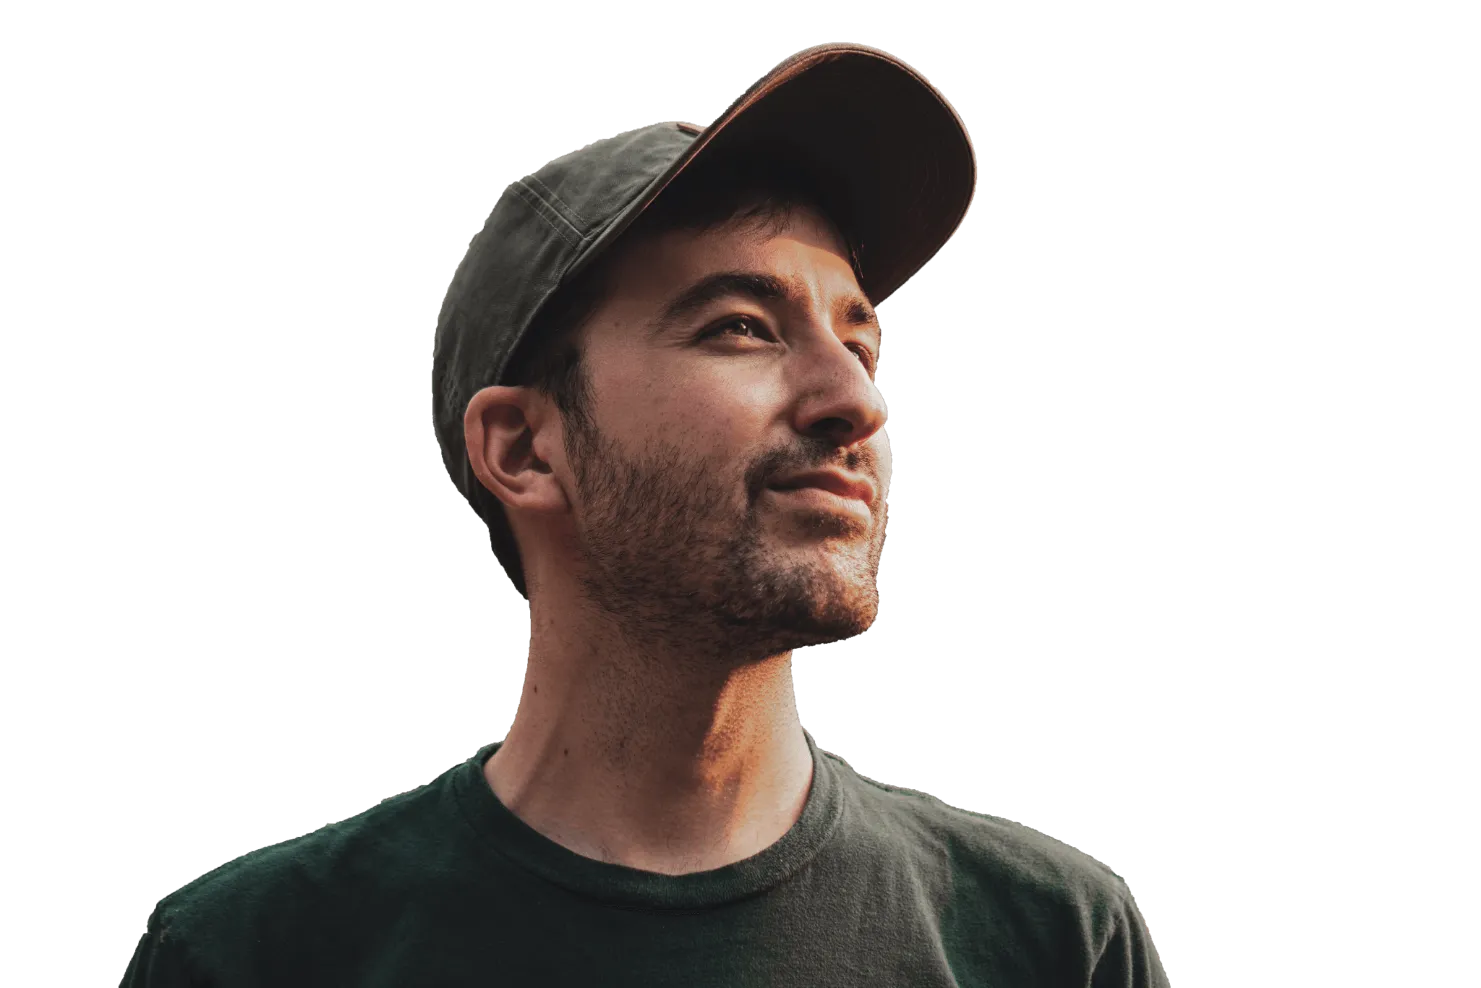
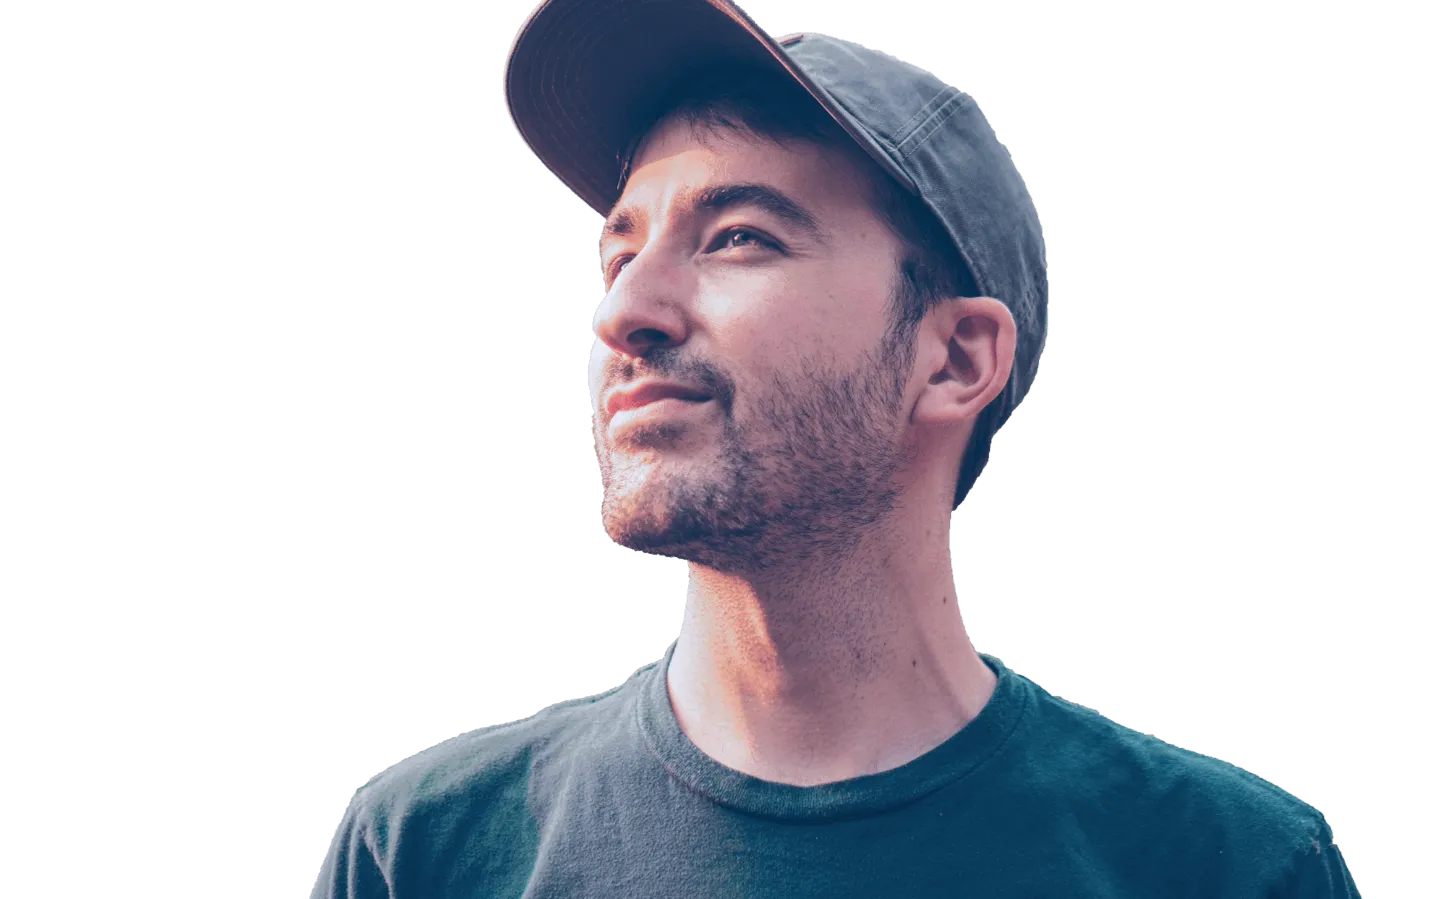
create MySkills

diff --git a/src/globalStyled/Global.styled.tsx b/src/globalStyled/Global.styled.tsx
@@ -3,12 +3,104 @@ import {createGlobalStyle} from "styled-components";
 
 
 export const GlobalStyled = createGlobalStyle`
-*,
-*:before,
-*:after {
-    box-sizing: border-box;
-    margin: 0;
-    padding: 0;
-}
+    
+    html{line-height:1.15;-webkit-text-size-adjust:100%}body{margin:0}main{display:block}h1{font-size:2em;margin:0.67em 0}hr{box-sizing:content-box;height:0;overflow:visible}pre{font-family:monospace,monospace;font-size:1em}a{background-color:transparent}abbr [title ]{border-bottom:none;text-decoration:underline;text-decoration:underline dotted}b,strong{font-weight:bolder}code,kbd,samp{font-family:monospace,monospace;font-size:1em}small{font-size:80%}sub,sup{font-size:75%;line-height:0;position:relative;vertical-align:baseline}sub{bottom:-0.25em}sup{top:-0.5em}img{border-style:none}button,input,optgroup,select,textarea{font-family:inherit;font-size:100%;line-height:1.15;margin:0}button,input{overflow:visible}button,select{text-transform:none}button, [type= "button " ], [type= "reset " ], [type= "submit " ]{-webkit-appearance:button}button::-moz-focus-inner, [type= "button " ]::-moz-focus-inner, [type= "reset " ]::-moz-focus-inner, [type= "submit " ]::-moz-focus-inner{border-style:none;padding:0}button:-moz-focusring, [type= "button " ]:-moz-focusring, [type= "reset " ]:-moz-focusring, [type= "submit " ]:-moz-focusring{outline:1px dotted ButtonText}fieldset{padding:0.35em 0.75em 0.625em}legend{box-sizing:border-box;color:inherit;display:table;max-width:100%;padding:0;white-space:normal}progress{vertical-align:baseline}textarea{overflow:auto} [type= "checkbox " ], [type= "radio " ]{box-sizing:border-box;padding:0} [type= "number " ]::-webkit-inner-spin-button, [type= "number " ]::-webkit-outer-spin-button{height:auto} [type= "search " ]{-webkit-appearance:textfield;outline-offset:-2px} [type= "search " ]::-webkit-search-decoration{-webkit-appearance:none}::-webkit-file-upload-button{-webkit-appearance:button;font:inherit}details{display:block}summary{display:list-item}template{display:none} [hidden ]{display:none}
+
+
+    /* Reset and base styles  */
+    * {
+        padding: 0px;
+        margin: 0px;
+        border: none;
+    }
+
+    *,
+    *::before,
+    *::after {
+        box-sizing: border-box;
+    }
+
+    /* Links */
+
+    a, a:link, a:visited {
+        text-decoration: none;
+    }
+
+    a:hover {
+        text-decoration: none;
+    }
+
+    /* Common */
+
+    aside, nav, footer, header, section, main {
+        display: block;
+    }
+
+    h1, h2, h3, h4, h5, h6, p {
+        font-size: inherit;
+        font-weight: inherit;
+    }
+
+    ul, ul li {
+        list-style: none;
+    }
+
+    img {
+        vertical-align: top;
+    }
+
+    img, svg {
+        max-width: 100%;
+        height: auto;
+    }
+
+    address {
+        font-style: normal;
+    }
+
+    /* Form */
+
+    input, textarea, button, select {
+        font-family: inherit;
+        font-size: inherit;
+        color: inherit;
+        background-color: transparent;
+    }
+
+    input::-ms-clear {
+        display: none;
+    }
+
+    button, input[type="submit"] {
+        display: inline-block;
+        box-shadow: none;
+        background-color: transparent;
+        background: none;
+        cursor: pointer;
+    }
+
+    input:focus, input:active,
+    button:focus, button:active {
+        outline: none;
+    }
+
+    button::-moz-focus-inner {
+        padding: 0;
+        border: 0;
+    }
+
+    label {
+        cursor: pointer;
+    }
+
+    legend {
+        display: block;
+    }
+
+    input[type='file'] {
+        max-width: 100%;
+    }
+
+
 
 `

diff --git a/src/layout/sections/mySkills/whyHireMeComponent/WhyHireMeComponent.tsx b/src/layout/sections/mySkills/whyHireMeComponent/WhyHireMeComponent.tsx
@@ -1,0 +1,62 @@
+import {WrapperComponentStyled} from "../../../../components/wrapperComponent/WrapperComponentStyled.tsx";
+import {TitleComponent} from "../../../../components/TitleComponent/TitleComponent.tsx";
+import {myTheme} from "../../../../components/Theme/Theme.styled.tsx";
+import styled from "styled-components";
+import {
+    BtnBusinessBlack,
+    BtnBusinessPropsType,
+    BtnBusinessStyled
+} from "../../../../components/btnBusiness/BtnBusiness.tsx";
+
+
+export function WhyHireMeComponent() {
+    return (
+        <WrapperComponentStyled height={'300px'} width={'26%'}>
+            <TitleComponent marginBottom='2.5rem'  title='Why Hire Me ?'/>
+            <MySkillsText>
+                Lorem ipsum dolor sit amet, consectetur adipiscing elit. Dapib eu placerat at nisl posuere aliquet
+                amet
+                pharetra malesuada. Spendisse nisl ac at tortor. Sit faucibus suspendisse risus.<br/> Vulputate
+                pulvinar
+                cursus suspendisse risus vulputate enim pharetra eu. Tetur adipiscing elit eu placera.
+            </MySkillsText>
+
+            <WrapperComponentStyled flexDirection={'row'} gap={'1.5rem'}>
+                <BtnBusinessBlack  width={'8.7em'} height={'3.5em'} title={'Hire Me'} ></BtnBusinessBlack>
+                <BtnBusinessGray width={'12.5em'} height={'3.5em'} title='Download CV'></BtnBusinessGray>
+            </WrapperComponentStyled>
+
+        </WrapperComponentStyled>
+
+
+    )
+}
+
+
+const MySkillsText = styled.p`
+    color: ${myTheme.colors.discriptionText};
+    margin-bottom: 2.5rem;
+`
+
+
+function BtnBusinessGray (props: BtnBusinessPropsType){
+    return (
+        <BtnBusinessGrayStyled width={props.width} height={props.height} >{props.title}</BtnBusinessGrayStyled>
+    )
+}
+
+const BtnBusinessGrayStyled = styled.button<BtnBusinessStyled>`
+    display: flex;
+    align-items: center;
+    justify-content: center;
+    background-color: transparent;
+    width: ${props => props.width || 'auto'};
+    height: ${props => props.height || 'auto'};
+    color: ${myTheme.colors.whteColor};
+    font-size: 16px;
+    border: ${myTheme.colors.borderBtnGray} 2px solid;
+    box-shadow: 0 4px 4px 0 rgba(0, 0, 0, 0.25);
+    color: ${myTheme.colors.PraymaryText};
+    
+
+`

diff --git a/src/layout/sections/mySkills/statSkills/StatSkills.tsx b/src/layout/sections/mySkills/statSkills/StatSkills.tsx
@@ -1,0 +1,65 @@
+import {WrapperComponentStyled} from "../../../../components/wrapperComponent/WrapperComponentStyled.tsx";
+import {TitleComponent} from "../../../../components/TitleComponent/TitleComponent.tsx";
+import styled from "styled-components";
+import {myTheme} from "../../../../components/Theme/Theme.styled.tsx";
+
+export function StatSkills() {
+    return (
+        <WrapperComponentStyled   height={'300px'} width={'26%'}>
+            <TitleComponent marginBottom='2.5rem' title='My Skills'/>
+            <div>
+                <StatSkillComponent title={'Adobe Photoshop'} percent={'96%'}/>
+                <StatSkillComponent title={'Adobe Illustrator'} percent={'92%'}/>
+                <StatSkillComponent title={'Adobe After Effect'} percent={'85%'}/>
+                <StatSkillComponent title={'Adobe InDesign'} percent={'94%'}/>
+            </div>
+        </WrapperComponentStyled>
+    )
+}
+
+type StatSkillComponentPropsType = {
+    title: string,
+    percent: string,
+}
+
+function StatSkillComponent(props: StatSkillComponentPropsType) {
+    return (
+        <WrapperComponentStyled marginBottom={'1rem'} width={props.percent}>
+            <InfoAboutSkill title={props.title} percent={props.percent}/>
+            <SkillStayled percent={props.percent}/>
+        </WrapperComponentStyled>
+    )
+}
+
+type SkillStayledPropsType = {
+    percent: string,
+}
+
+const SkillStayled = styled.div<SkillStayledPropsType>`
+    background-color: ${myTheme.colors.highlighting};
+    height: 3px;
+    width: ${(props) => props.percent};
+
+`
+
+
+type InfoAboutSkillPropsType = {
+    title: string,
+    percent: string
+}
+
+
+function InfoAboutSkill(props: InfoAboutSkillPropsType) {
+    const NameSkillStyled = styled.span`
+        font-size: 16px;
+        color: ${myTheme.colors.PraymaryText};
+        margin-bottom: 0.6rem;
+    `
+    return (
+        <WrapperComponentStyled flexDirection={'row'} justifyContent={'space-between'} width={props.percent}>
+            <NameSkillStyled>{props.title}</NameSkillStyled>
+            <NameSkillStyled>{props.percent}</NameSkillStyled>
+        </WrapperComponentStyled>
+
+    )
+}

diff --git a/src/components/btnBusiness/BtnBusiness.tsx b/src/components/btnBusiness/BtnBusiness.tsx
@@ -1,0 +1,34 @@
+import styled from "styled-components";
+import {myTheme} from "../Theme/Theme.styled.tsx";
+
+export function BtnBusinessBlack(props: BtnBusinessPropsType) {
+    return (
+        <BtnBusinessBlackStyled title={props.title} height={props.height}
+                           width={props.width}>{props.title}</BtnBusinessBlackStyled>
+    )
+
+
+}
+export type BtnBusinessStyled = {
+    width?: string,
+    height?: string,
+}
+
+export type BtnBusinessPropsType = BtnBusinessStyled & {
+    title: string,
+}
+
+
+
+
+const BtnBusinessBlackStyled = styled.a<BtnBusinessStyled>`
+    display: flex;
+    align-items: center;
+    justify-content: center;
+    background-color: ${myTheme.colors.PraymaryText};
+    width: ${props => props.width || 'auto'};
+    height: ${props => props.height || 'auto'};
+    color: ${myTheme.colors.whteColor};
+    font-size: 16px;
+`
+

diff --git a/src/components/TitleComponent/TitleComponent.tsx b/src/components/TitleComponent/TitleComponent.tsx
@@ -3,20 +3,29 @@ import {myTheme} from "../Theme/Theme.styled.tsx";
 
 type TitlePropsType = {
     title: string,
+    marginBottom?: string,
 }
 
 export function TitleComponent(props: TitlePropsType) {
     return (
-        <TitleStyled>
+        <TitleStyled marginBottom={props.marginBottom}>
             {props.title}
         </TitleStyled>
     )
 }
 
-const TitleStyled = styled.h2`
+type TitleStyledPropsType = {
+    marginBottom?: string,
+
+}
+
+
+const TitleStyled = styled.h2<TitleStyledPropsType>`
+    display: block;
     font-size: 48px;
     line-height: 100%;
     letter-spacing: -1px;
     color: ${myTheme.colors.Title};
-    
+    margin-bottom: ${(props) => props.marginBottom || '0'};
+
 `

diff --git a/src/layout/sections/mySkills/MySkills.tsx b/src/layout/sections/mySkills/MySkills.tsx
@@ -1,0 +1,29 @@
+import styled from "styled-components";
+import {myTheme} from "../../../components/Theme/Theme.styled.tsx";
+import {WhyHireMeComponent} from "./whyHireMeComponent/WhyHireMeComponent.tsx";
+import {StatSkills} from "./statSkills/StatSkills.tsx";
+
+export function MySkills() {
+    return (
+        <MySkillsSectionStyled>
+            <WhyHireMeComponent/>
+            <StatSkills/>
+        </MySkillsSectionStyled>
+    )
+}
+
+
+const MySkillsSectionStyled = styled.section`
+    display: flex;
+    align-items: center;
+    justify-content: center;
+    height: 50vh;
+    background-color: ${myTheme.colors.additionalSection};
+    gap: 160px;
+    
+    
+`
+
+
+
+

diff --git a/src/components/wrapperComponent/WrapperComponentStyled.tsx b/src/components/wrapperComponent/WrapperComponentStyled.tsx
@@ -10,6 +10,10 @@ type WrapperComponentPropsType = {
     width?: string
     position?: string,
     left?: string,
+    marginBottom?: string,
+    height?: string,
+    gap?: string,
+    paddingTop?: string,
 }
 
 
@@ -24,4 +28,8 @@ export const WrapperComponentStyled= styled.div<WrapperComponentPropsType>`
     position: ${(props) => props.position || 'static'};
     left: ${(props) => props.left || '0'};
     z-index: 0;
+    margin-bottom: ${(props) => props.marginBottom || '0'};
+    min-height: ${(props) => props.height || 'auto'};
+    gap: ${(props) => props.gap || '0'};
+    padding-top: ${(props) => props.paddingTop || '0'};
 `

diff --git a/src/App.tsx b/src/App.tsx
@@ -1,12 +1,12 @@
 import {Main} from "./layout/sections/Main/Main.tsx";
 import styled from "styled-components";
-import {MySkillsComponent} from "./layout/mySkills/MySkillsComponent.tsx";
+import {MySkills} from "./layout/sections/mySkills/MySkills.tsx";
 
 function App() {
     return (
         <AppStyled >
             <Main/>
-            <MySkillsComponent/>
+            <MySkills/>
         </AppStyled>
     )
 }

diff --git a/src/components/Theme/Theme.styled.tsx b/src/components/Theme/Theme.styled.tsx
@@ -11,7 +11,10 @@ export const myTheme = {
         secondarySection: "#E5E9ED",
         additionalSection: "#DCDCDC",
 
-        borderColorBtnMain: "#9E9E9E"
+        borderColorBtnMain: "#9E9E9E",
+        borderBtnGray: "#E1E1E1",
+
+        whteColor: "#fff"
 
 
 

diff --git a/src/layout/sections/Main/Main.tsx b/src/layout/sections/Main/Main.tsx
@@ -34,8 +34,7 @@ const MainStyled = styled.main`
 const ImgStyled = styled.img`
     display: block;
     position: absolute;
-    height: 110vh;
-    transform: scaleX(-1);
+    height: 105vh;
     right: -5%;
     bottom: 0;
     z-index: 1;
